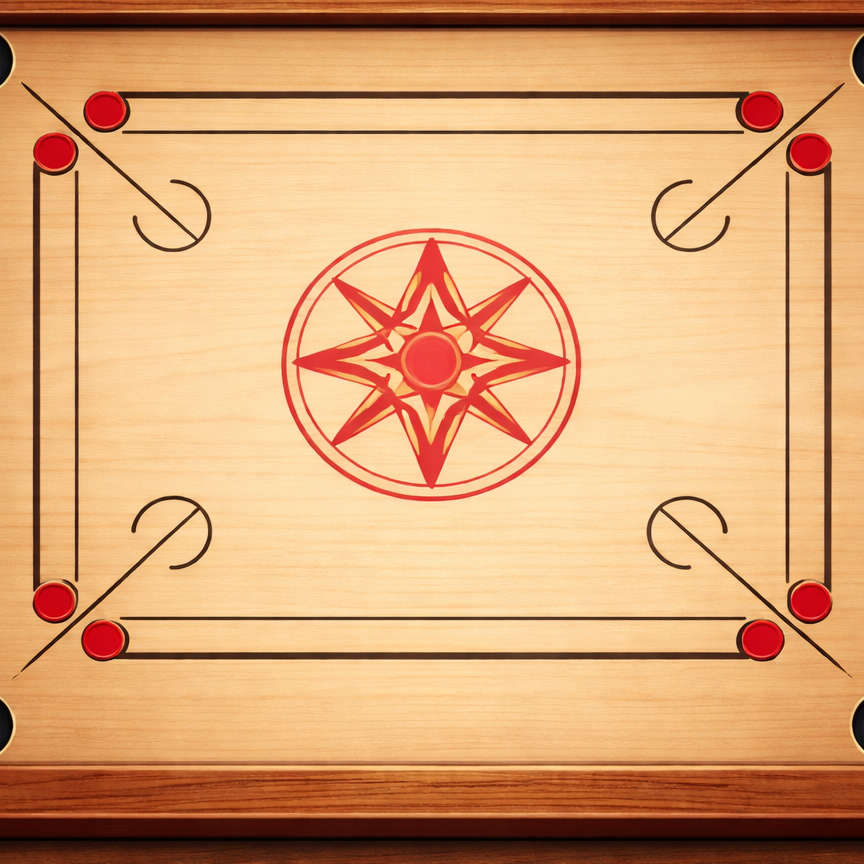
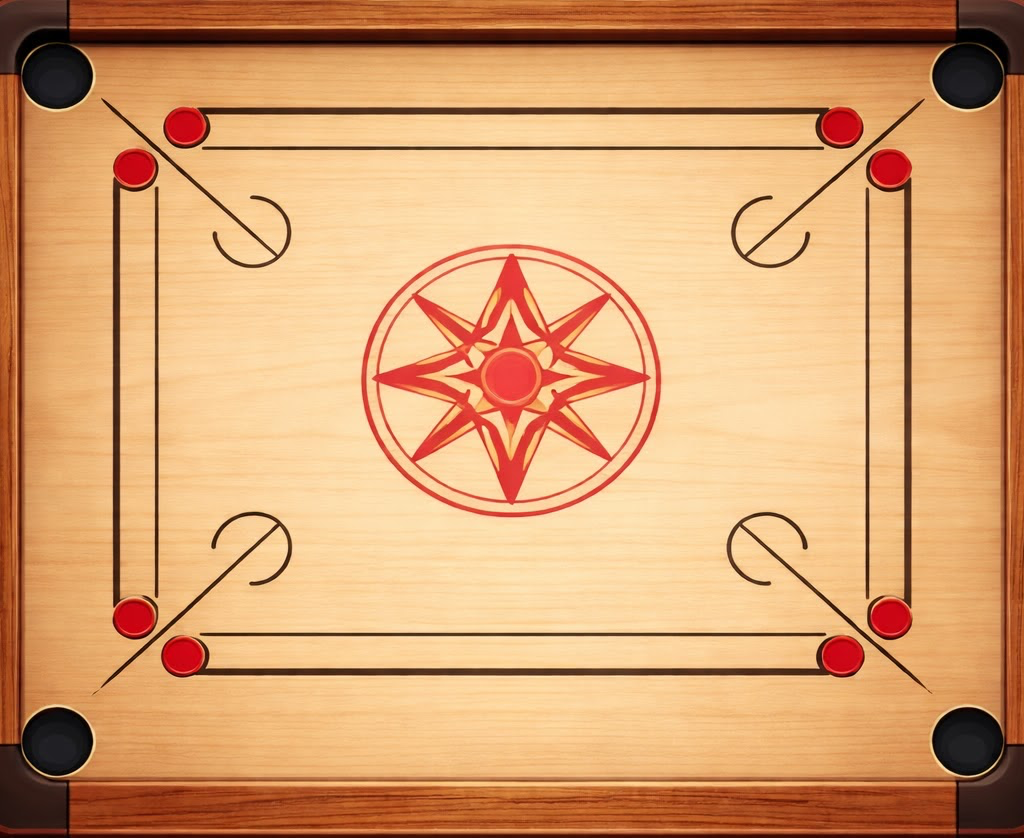
Fix carrom board: better crop and striker lane positions
- Use user's edited board image with proper pocket visibility
- Adjust striker lanes to be between the two black baselines
- Top lane: 40+95=135px, Bottom lane: 800-135=665px

diff --git a/src/games/carrom/index.html b/src/games/carrom/index.html
@@ -326,8 +326,8 @@ const WALL_DMP = 0.72;
 const MIN_V = 0.08;
 const MAX_PWR = 28;
 const LINE_W = BS - BM*2;
-const LANE_Y0 = BS - BM - 100;  // player 0 lane Y (bottom baseline)
-const LANE_Y1 = BM + 100;       // player 1 lane Y (top baseline)
+const LANE_Y0 = BS - BM - 95;   // player 0 lane Y (bottom - between black baselines)
+const LANE_Y1 = BM + 95;        // player 1 lane Y (top - between black baselines)
 const LANE_X_MIN = BS/2 - 110;  // wider strike lane
 const LANE_X_MAX = BS/2 + 110;
 // Pocket positions - adjusted to match the new board image corners